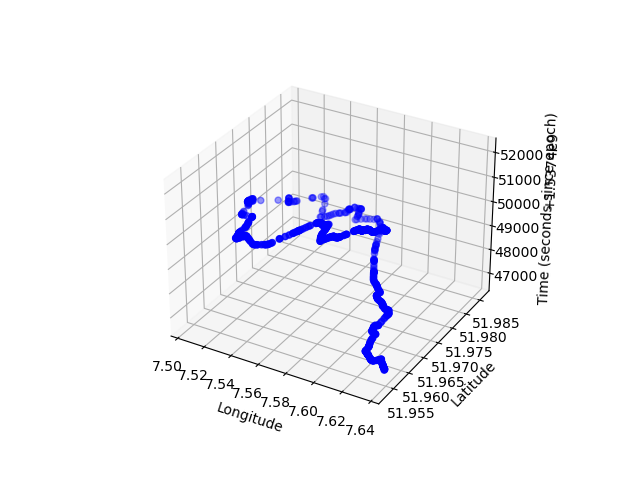
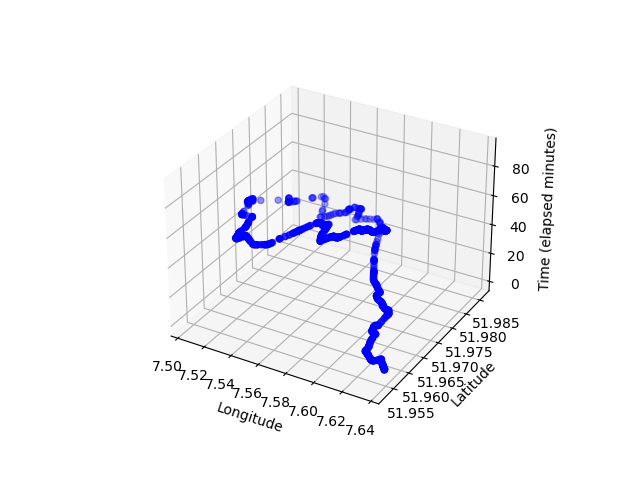
update relative paths

diff --git a/gpx_to_spacetime_cube_python_console.py b/gpx_to_spacetime_cube_python_console.py
@@ -1,52 +1,81 @@
-from qgis.PyQt.QtWidgets import QAction, QFileDialog, QMessageBox
-from qgis.PyQt.QtGui import QIcon
 from qgis.core import QgsVectorLayer
+from qgis.PyQt.QtWidgets import QDialog, QVBoxLayout, QMessageBox
+from matplotlib.backends.backend_qt5agg import FigureCanvasQTAgg as FigureCanvas
 import matplotlib.pyplot as plt
-from mpl_toolkits.mplot3d import Axes3D
 import os
-import datetime
-from qgis.core import QgsWkbTypes
 
-# Path to input GPX file
-file_path = '/home/ngavish/Downloads/10km_waldheim.gpx'
+# ───── CONFIGURATION ───────────────────────────────────────────
+TIME_UNIT = "minutes"  # Options: "minutes", "seconds"
+MAX_TRACK_POINTS = 5000
+# ───────────────────────────────────────────────────────────────
 
-# Load GPX track points as a QgsVectorLayer
+# Resolve relative GPX path
+base_dir = os.path.dirname(__file__) if "__file__" in globals() else os.getcwd()
+file_path = os.path.join(base_dir, "sample data", "AaseeLoop.gpx")
+
+# Load track point layer from GPX
 uri = f"{file_path}|layername=track_points"
 layer = QgsVectorLayer(uri, "GPX Track Points", "ogr")
+
 if not layer.isValid():
-    print("invalid gpx file!")
+    raise RuntimeError("GPX file could not be loaded or is invalid.")
 
-
-lons, lats, times = [], [], []
-
+# Parse coordinates and timestamps
+lons, lats, raw_times = [], [], []
 for feat in layer.getFeatures():
     geom = feat.geometry()
-    if not geom.isEmpty():
-        point = geom.asPoint()
-        lons.append(point.x())
-        lats.append(point.y())
+    if geom.isEmpty():
+        continue
+    pt = geom.asPoint()
+    lons.append(pt.x())
+    lats.append(pt.y())
+    qdt = feat.attribute("time")
+    if qdt and hasattr(qdt, "toPyDateTime"):
+        raw_times.append(qdt.toPyDateTime().timestamp())
 
-        qdatetime = feat.attribute('time')
-        if qdatetime and hasattr(qdatetime, 'toPyDateTime'):
-            dt = qdatetime.toPyDateTime()
-            times.append(dt.timestamp())
+# Basic validation
+if not raw_times or len(raw_times) != len(lons):
+    raise RuntimeError("No valid timestamped points found in GPX track.")
 
+# Warn if the GPX is large
+if len(raw_times) > MAX_TRACK_POINTS:
+    QMessageBox.warning(
+        None,
+        "Large GPX Track",
+        f"Track contains {len(raw_times)} points.\nThis may affect performance.",
+    )
 
+# Compute elapsed time (relative to start)
+t0 = raw_times[0]
+elapsed = [(t - t0) for t in raw_times]
+if TIME_UNIT == "minutes":
+    elapsed = [e / 60.0 for e in elapsed]
+unit_label = TIME_UNIT
 
-# Create 3D scatter plot with Matplotlib
+# Plot 3D trajectory
 fig = plt.figure()
-ax = fig.add_subplot(111, projection='3d')
-ax.scatter(lons, lats, times, c='blue', marker='o')
-ax.set_xlabel('Longitude')
-ax.set_ylabel('Latitude')
-ax.set_zlabel('Time (seconds since epoch)')
+ax = fig.add_subplot(111, projection="3d")
+ax.scatter(lons, lats, elapsed, c="blue", marker="o")
+ax.set_xlabel("Longitude")
+ax.set_ylabel("Latitude")
+ax.set_zlabel(f"Time (elapsed {unit_label})")
 
-# Save plot image
+# Show inside QDialog
+canvas = FigureCanvas(fig)
+dlg = QDialog(iface.mainWindow())
+dlg.setWindowTitle("3D Space‑Time Cube")
+layout = QVBoxLayout()
+layout.addWidget(canvas)
+dlg.setLayout(layout)
+dlg.resize(800, 600)
+dlg.exec_()
+
+# Save plot
 out_path = os.path.splitext(file_path)[0] + "_plot.png"
 try:
     fig.savefig(out_path)
+    print(f"Plot saved to: {out_path}")
 except Exception as e:
-    QMessageBox.critical(self.iface.mainWindow(),
-                         "Error",
-                         f"Failed to save plot: {e}")
+    print(f"Error saving plot: {e}")
+
 plt.close(fig)

diff --git a/gpx_to_spacetime_cube.py b/gpx_to_spacetime_cube.py
@@ -24,6 +24,12 @@ class GPXToSpaceTimeCube:
         self.iface.removeToolBarIcon(self.action)
 
     def run(self):
+        # ───── CONFIGURATION ──────────────────────────────────────
+        TIME_UNIT = "minutes"  # "minutes" or "seconds"
+        MAX_TRACK_POINTS = 5000
+        # ──────────────────────────────────────────────────────────
+
+        # Ask user for GPX file
         file_path, _ = QFileDialog.getOpenFileName(
             self.iface.mainWindow(),
             "Select GPX file",
@@ -41,32 +47,47 @@ class GPXToSpaceTimeCube:
 
         QgsProject.instance().addMapLayer(layer)
 
-        lons, lats, times = [], [], []
-
+        lons, lats, raw_times = [], [], []
         for feat in layer.getFeatures():
             geom = feat.geometry()
-            if not geom.isEmpty():
-                point = geom.asPoint()
-                lons.append(point.x())
-                lats.append(point.y())
-                qdatetime = feat.attribute('time')
-                if qdatetime and hasattr(qdatetime, 'toPyDateTime'):
-                    dt = qdatetime.toPyDateTime()
-                    times.append(dt.timestamp())
+            if geom.isEmpty():
+                continue
+            pt = geom.asPoint()
+            lons.append(pt.x())
+            lats.append(pt.y())
+            qdt = feat.attribute('time')
+            if qdt and hasattr(qdt, 'toPyDateTime'):
+                raw_times.append(qdt.toPyDateTime().timestamp())
 
-        if not times or len(times) != len(lons):
+        # Basic validation
+        if not raw_times or len(raw_times) != len(lons):
             QMessageBox.warning(self.iface.mainWindow(), "Data Error", "No valid timestamped points found.")
             return
 
-        # Create plot
+        # Warn for very large tracks
+        if len(raw_times) > MAX_TRACK_POINTS:
+            QMessageBox.warning(
+                self.iface.mainWindow(),
+                "Large GPX Track",
+                f"Track contains {len(raw_times)} points.\nThis may affect performance."
+            )
+
+        # Compute elapsed time
+        t0 = raw_times[0]
+        elapsed = [(t - t0) for t in raw_times]
+        if TIME_UNIT == "minutes":
+            elapsed = [e / 60.0 for e in elapsed]
+        unit_label = TIME_UNIT
+
+        # Create 3D plot
         fig = plt.figure()
         ax = fig.add_subplot(111, projection='3d')
-        ax.scatter(lons, lats, times, c='blue', marker='o')
+        ax.scatter(lons, lats, elapsed, c='blue', marker='o')
         ax.set_xlabel('Longitude')
         ax.set_ylabel('Latitude')
-        ax.set_zlabel('Time (seconds since epoch)')
+        ax.set_zlabel(f'Time (elapsed {unit_label})')
 
-        # Try saving plot
+        # Save plot
         out_path = os.path.splitext(file_path)[0] + "_plot.png"
         try:
             fig.savefig(out_path)
@@ -74,10 +95,10 @@ class GPXToSpaceTimeCube:
         except Exception as e:
             QMessageBox.critical(self.iface.mainWindow(), "Save Error", f"Failed to save plot:\n{e}")
 
-        # Show plot inside a QDialog
+        # Show in dialog
         canvas = FigureCanvas(fig)
         dlg = QDialog(self.iface.mainWindow())
-        dlg.setWindowTitle("3D Space-Time Cube")
+        dlg.setWindowTitle("3D Space‑Time Cube")
         layout = QVBoxLayout()
         layout.addWidget(canvas)
         dlg.setLayout(layout)
